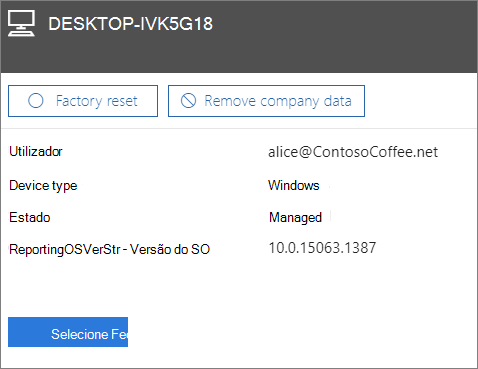
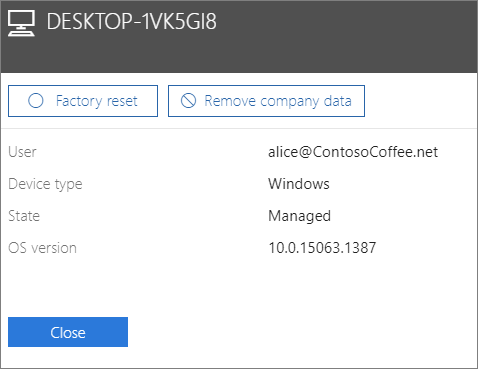
commit translated contents

diff --git a/microsoft-365/business/remove-company-data.md b/microsoft-365/business/remove-company-data.md
@@ -23,33 +23,33 @@ search.appverid:
 - BCS160
 - MET150
 ms.assetid: 80bdae57-f8bc-4e40-a58c-956007117ecb
-description: Descubra como utilizar o Microsoft 365 para a empresa para remover os dados da empresa que os seus utilizadores têm nos seus dispositivos ou Computadores Windows.
-ms.openlocfilehash: 2e1af384d83937d65fd5c8ae655d228df48422cd
-ms.sourcegitcommit: 53acc851abf68e2272e75df0856c0e16b0c7e48d
+description: Descubra como utilizar o Microsoft 365 para empresas para remover dados empresariais que os seus utilizadores têm nos respetivos dispositivos ou PCs Windows dados.
+ms.openlocfilehash: 2b96535c0ecbaf5b1bf366d21f2dc5be92058119d0cf3c746ce39ac2e57bbd41
+ms.sourcegitcommit: a1b66e1e80c25d14d67a9b46c79ec7245d88e045
 ms.translationtype: MT
 ms.contentlocale: pt-PT
-ms.lasthandoff: 04/02/2021
-ms.locfileid: "51580000"
+ms.lasthandoff: 08/05/2021
+ms.locfileid: "53815139"
 ---
 # <a name="remove-company-data-from-devices"></a>Remover dados da empresa de dispositivos
 
-Este artigo aplica-se ao Microsoft 365 Business Premium.
+Este artigo aplica-se a Microsoft 365 Empresas Premium.
 
 ## <a name="remove-company-data"></a>Remover dados da empresa
 
-Pode utilizar o Microsoft 365 para a empresa para remover os dados da empresa que os seus utilizadores têm nos seus [dispositivos](app-protection-settings-for-android-and-ios.md) ou [Computadores Windows](protection-settings-for-windows-10-devices.md) que estão protegidos pela Microsoft 365. **Se remover dados empresariais de um dispositivo, não poderá restaurá-los posteriormente**. 
+Pode utilizar o Microsoft 365 para empresas para remover dados [](app-protection-settings-for-android-and-ios.md) empresariais que os seus utilizadores têm nos [respetivos dispositivos ou PCs Windows protegidos](protection-settings-for-windows-10-devices.md) por Microsoft 365. **Se remover dados empresariais de um dispositivo, não poderá restaurá-los posteriormente**. 
   
-1. Vá ao centro de administração em <a href="https://go.microsoft.com/fwlink/p/?linkid=837890" target="_blank">https://admin.microsoft.com</a> .
+1. Vá para o centro de administração em <a href="https://go.microsoft.com/fwlink/p/?linkid=837890" target="_blank">https://admin.microsoft.com</a> .
     
-2. Na navegação à esquerda, escolha **Dispositivos** \> **Gerir**.  
+2. No navegador esquerdo, selecionar **Dispositivos** \> **Gerir**.  
   
-3. Na página **'Gerir',** escolha ou procure por um utilizador que pretenda remover os dados que pretende remover e escolha o nome. 
+3. Na página **Gerir,** selecionar ou procurar um utilizador cujos dados pretende remover e selecionar o nome. 
     
-4. No painel seguinte, selecione o dispositivo ou dispositivos da lista **de Dispositivos.** No painel do dispositivo que abre, pode optar por reiniciar o dispositivo para as definições de fábrica ou remover dados da empresa, dependendo do tipo de dispositivo. 
+4. No painel seguinte, selecione o dispositivo ou dispositivos na lista **Dispositivos.** No painel de dispositivos que é aberto, pode optar por repor o dispositivo para as definições de fábrica ou remover os dados da empresa, dependendo do tipo de dispositivo. 
     
-    ![No painel de dados da empresa de remoção, selecione o dispositivo a partir do qual pretende remover os dados.](../media/resetorremove.png)
+    ![No painel remover dados da empresa, selecione o dispositivo a partir do qual pretende remover os dados.](../media/resetorremove.png)
   
-5. No painel de confirmação, escolha **Confirmar** \> **Fechar**.
+5. No painel de confirmação, selecionar **Confirmar** \> **Fecho.**
     
 
 
